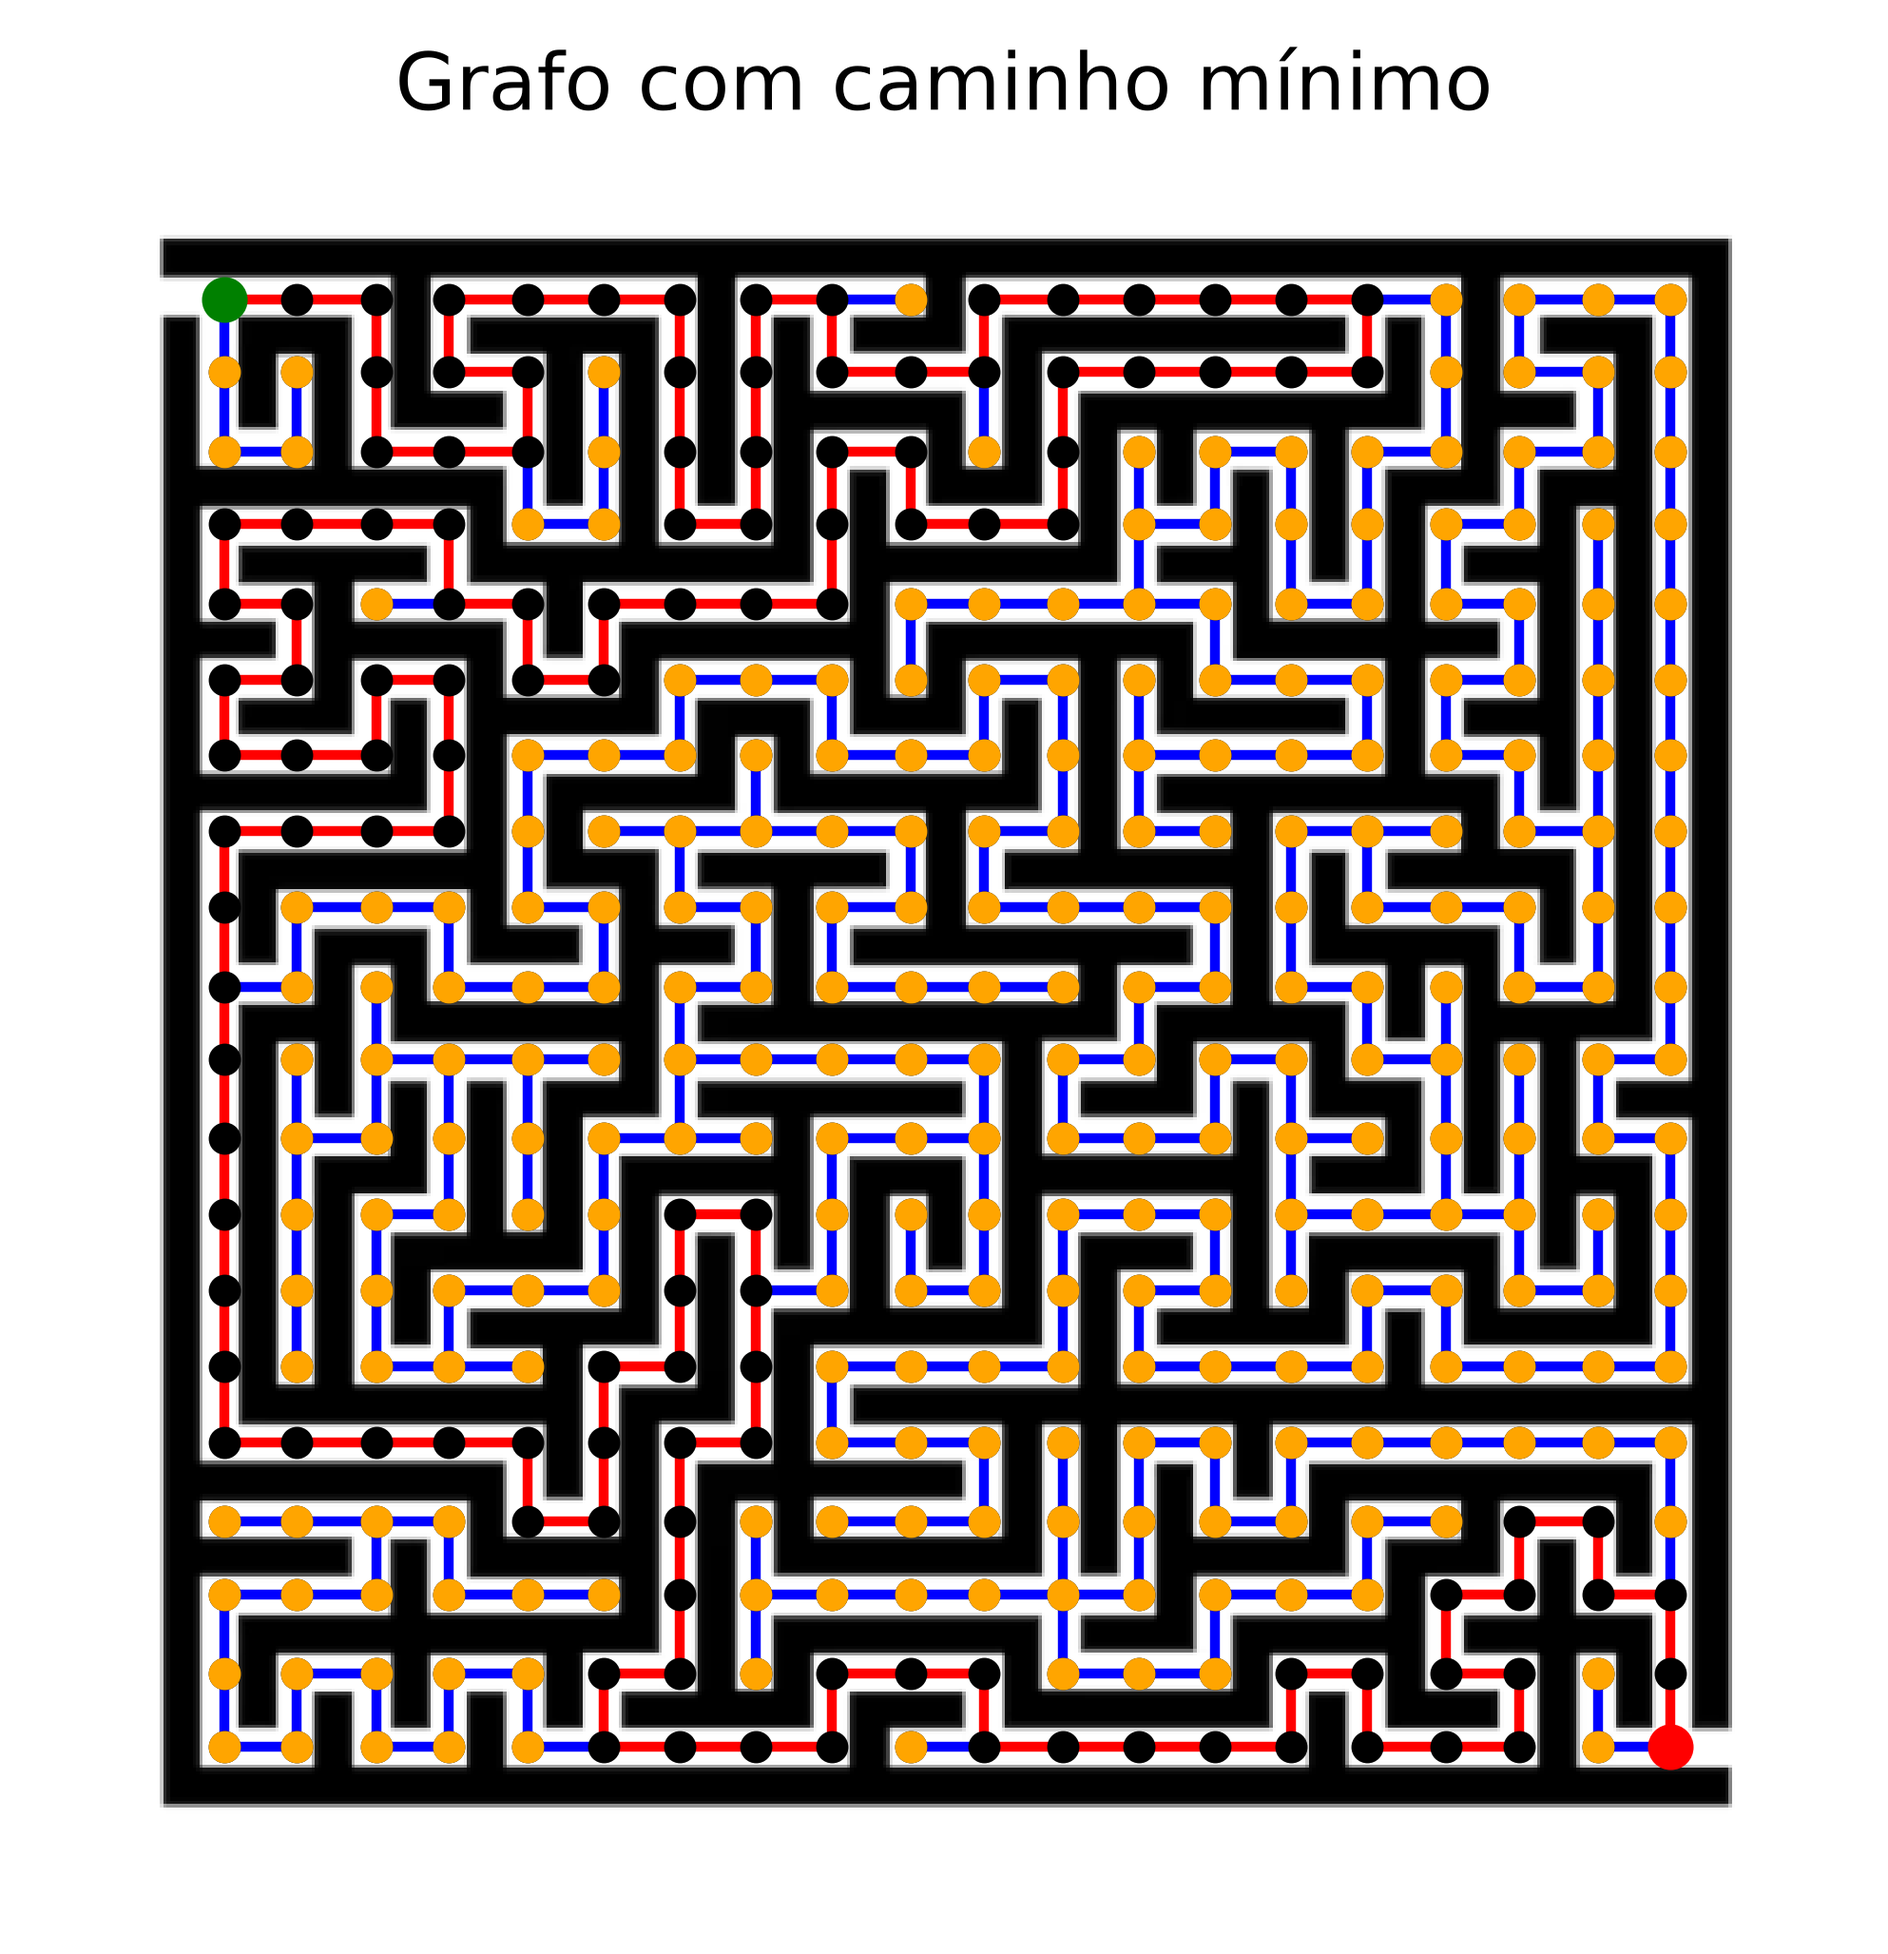
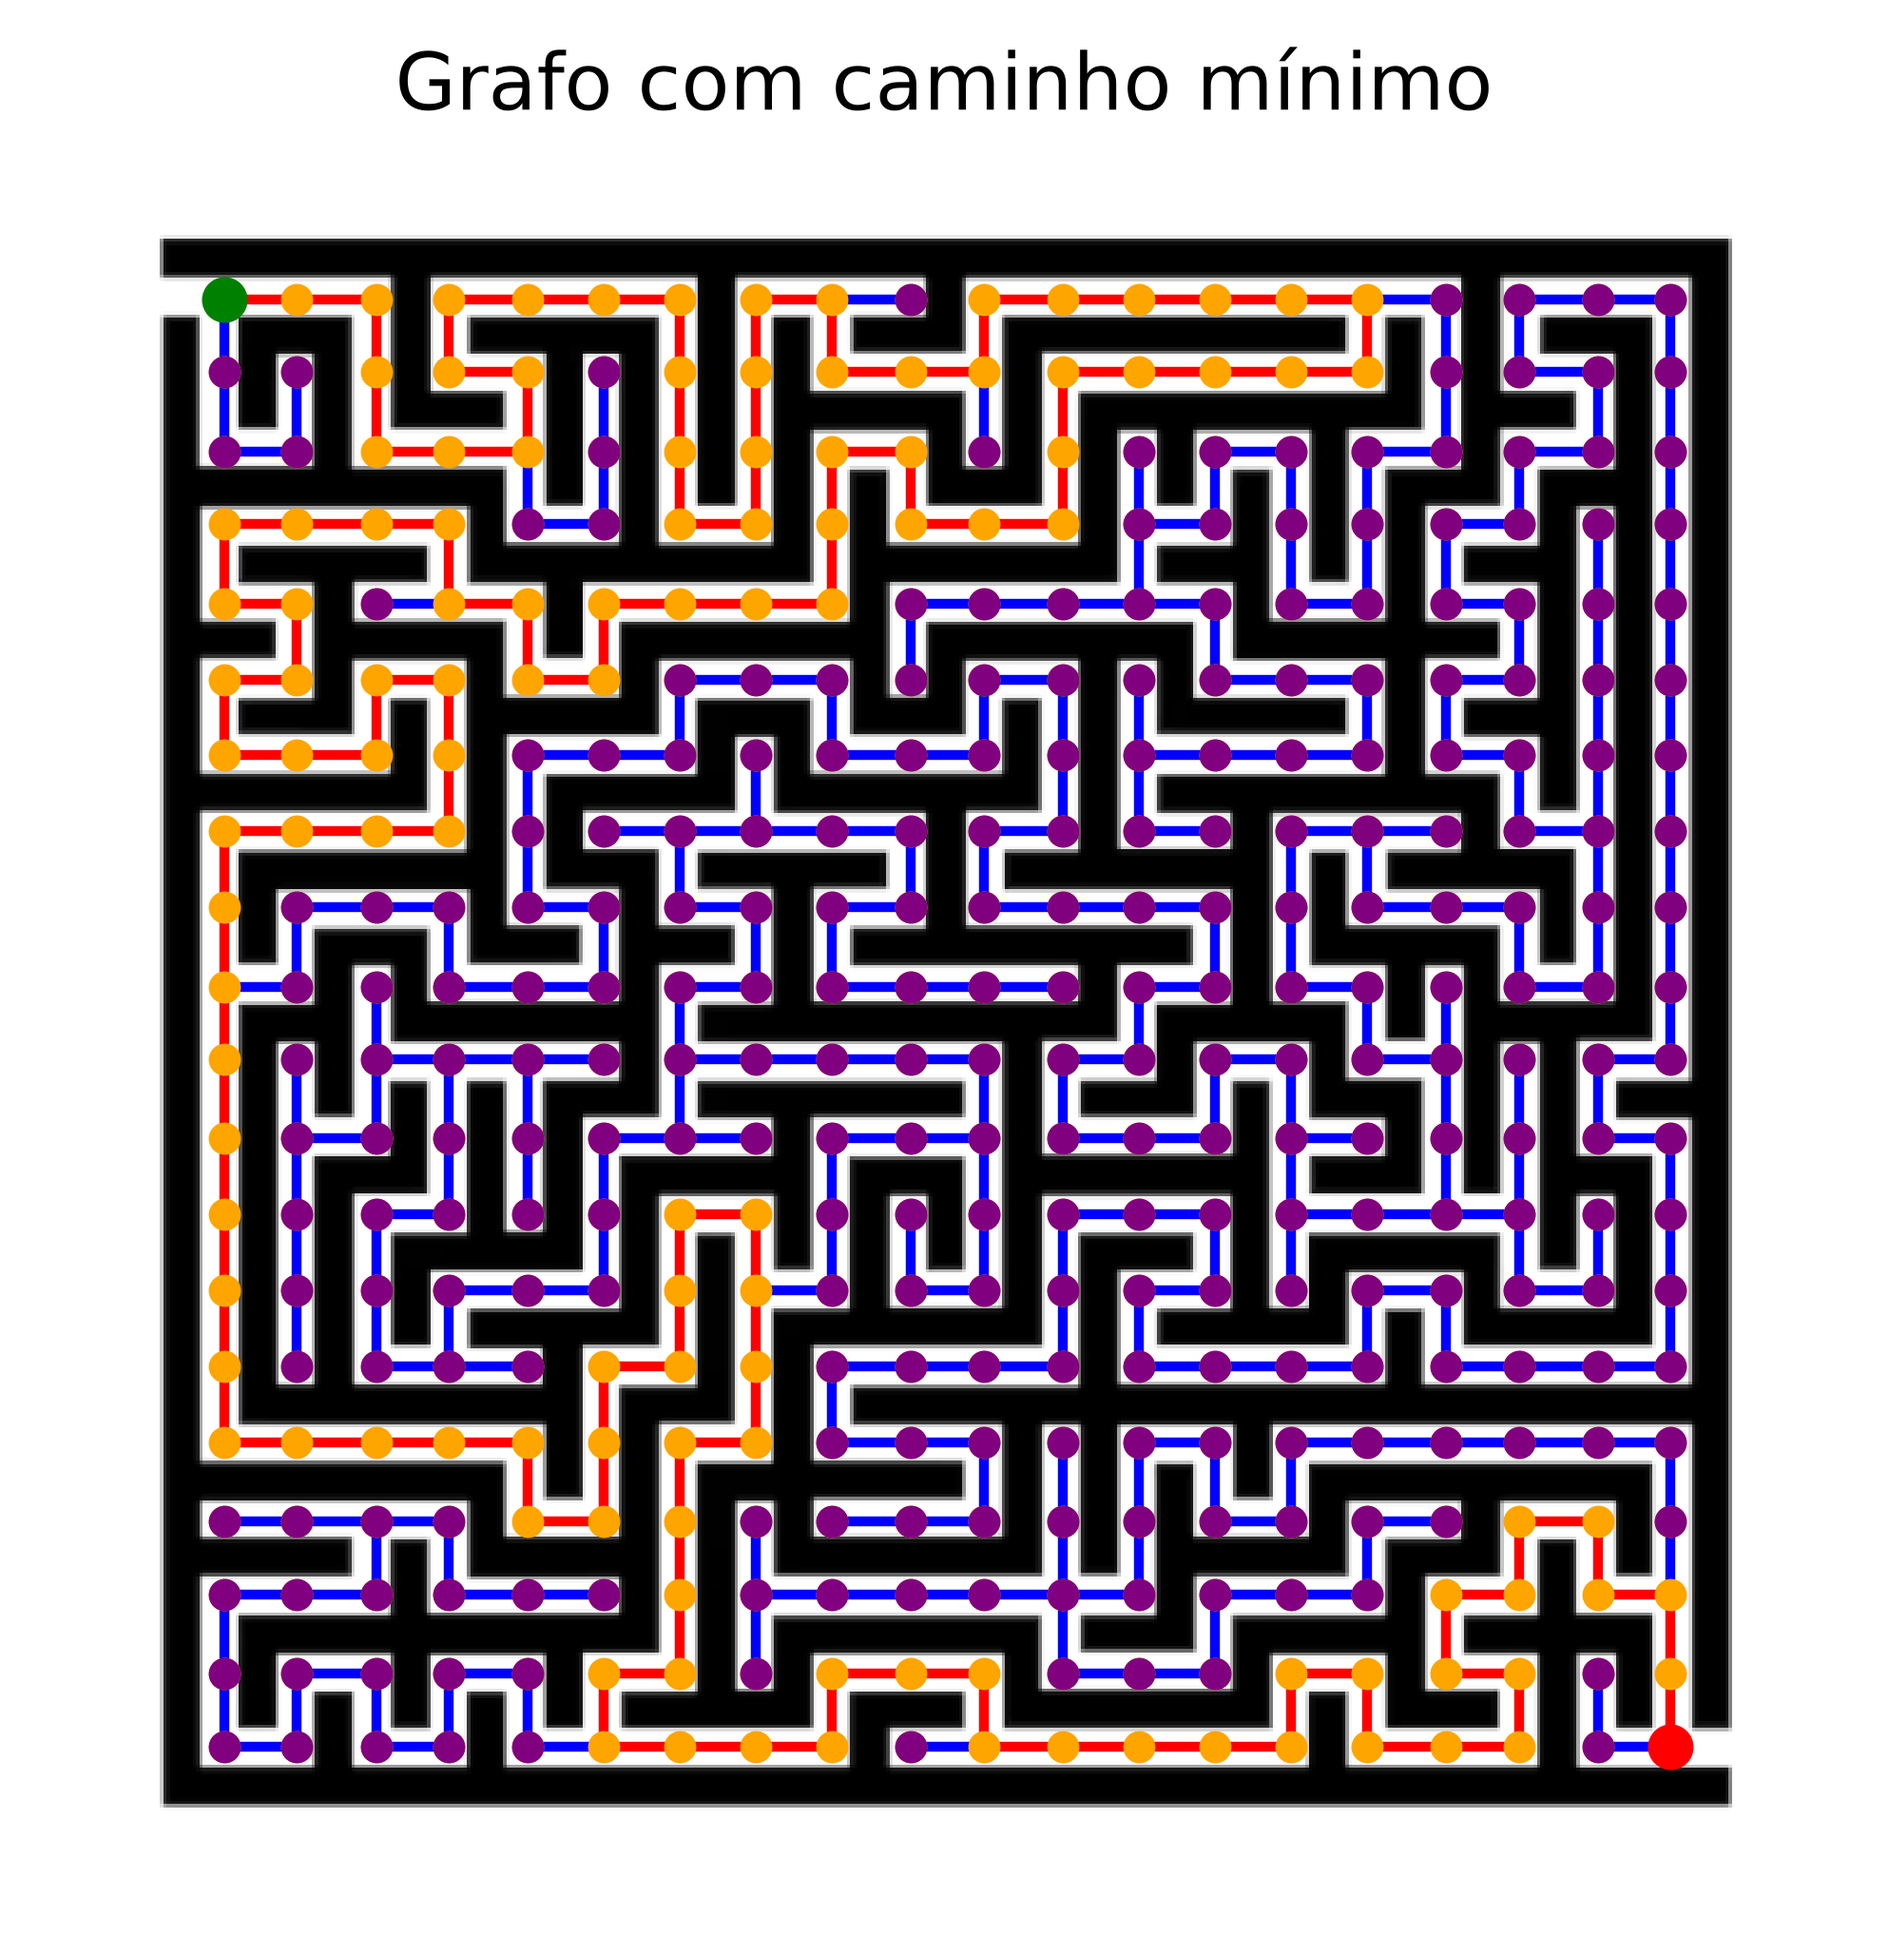
Altera as cores dos gráficos

diff --git a/shortest_path/parte_7.py b/shortest_path/parte_7.py
@@ -31,7 +31,7 @@ if __name__ == '__main__':
         for v in grafo[u]:
             if u < v and v in caminho:
                 x2, y2 = centros[v]
-                plt.plot([x1, x2], [y1, y2], color='blue', linewidth=1.5)
+                plt.plot([x1, x2], [y1, y2], color='red', linewidth=1.5)
 
     # desenha os vértices
     x_coords = [centros[v][0] for v in caminho]
@@ -67,13 +67,13 @@ if __name__ == '__main__':
     x_coords = [centros[v][0] for v in centros]
     y_coords = [centros[v][1] for v in centros]
 
-    plt.scatter(x_coords[1:-1], y_coords[1:-1], c='black', s=15, zorder=2)
+    plt.scatter(x_coords[1:-1], y_coords[1:-1], c='orange', s=15, zorder=2)
     plt.scatter(x_coords[0], y_coords[0], c='green', s=35, zorder=2)
     plt.scatter(x_coords[-1], y_coords[-1], c='red', s=35, zorder=2)
 
     x_coords = [centros[v][0] for v in celulas if v not in caminho]
     y_coords = [centros[v][1] for v in celulas if v not in caminho]
-    plt.scatter(x_coords, y_coords, c='orange', s=15, zorder=2)
+    plt.scatter(x_coords, y_coords, c='purple', s=15, zorder=2)
 
 
     # salva a imagem em 'img'

diff --git a/shortest_path/parte_3.py b/shortest_path/parte_3.py
@@ -31,7 +31,7 @@ if __name__ == '__main__':
     x_coords = [centros[v][0] for v in centros]
     y_coords = [centros[v][1] for v in centros]
 
-    plt.scatter(x_coords[1:-1], y_coords[1:-1], c='orange', s=15, zorder=2)
+    plt.scatter(x_coords[1:-1], y_coords[1:-1], c='purple', s=15, zorder=2)
     plt.scatter(x_coords[0], y_coords[0], c='green', s=35, zorder=2)
     plt.scatter(x_coords[-1], y_coords[-1], c='red', s=35, zorder=2)
 

diff --git a/shortest_path/parte_1.py b/shortest_path/parte_1.py
@@ -5,6 +5,7 @@ import os
 from pathlib import Path
 
 IMG = Path(__file__).resolve().parent.parent / "img"
+os.makedirs(IMG, exist_ok=True)
 
 def carregar_labirinto(title):
     # carregar a imagem
@@ -32,7 +33,6 @@ def carregar_labirinto(title):
     return M, topo, esq
 
 if __name__ == '__main__':
-    os.makedirs(IMG, exist_ok=True)
     img = Image.open(IMG / 'labirinto.png')
 
     # apresenta a imagem original
